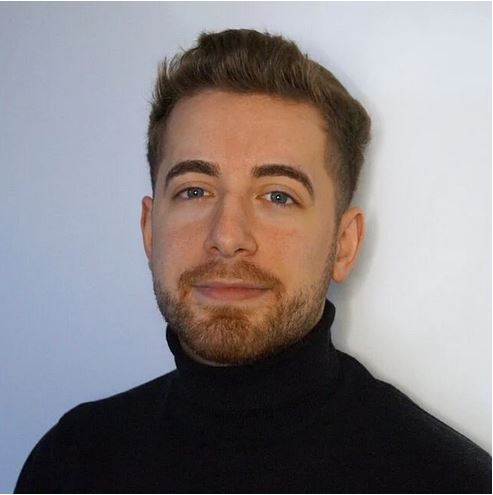
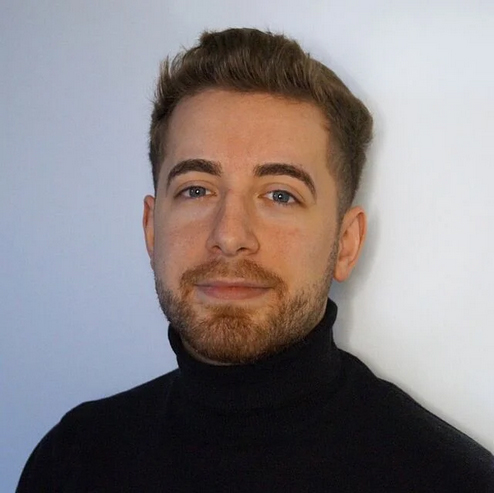
add github & mail links to peoples, add imgages

diff --git a/_pages/people.md b/_pages/people.md
@@ -4,12 +4,12 @@ permalink: /people/
 author_profile: false
 
 researchers:
-  - image_path: /assets/images/bio-photo.jpg
+  - image_path: /assets/images/Ibrahim.jpg
     alt: "Ibrahim Baroud"
     excerpt: 'Ibrahim Baroud'
     size: "500"
     email: "ibrahim.baroud@dfki.de"
-  - image_path: /assets/images/bio-photo.jpg
+  - image_path: /assets/images/Charlott.jpg
     alt: "Charlott Jakob"
     excerpt: 'Charlott Jakob'
     size: "500"
@@ -25,6 +25,7 @@ researchers:
     alt: "Lisa Raithel"
     excerpt: 'Lisa Raithel'
     size: "500" 
+    email: "raithel@tu-berlin.de"
   - image_path: /assets/images/Premtim.jpg
     alt: "Premtim Sahitaj"
     excerpt: 'Premtim Sahitaj'
@@ -37,7 +38,7 @@ researchers:
     size: "500"
     email: "vera.schmitt@tu-berlin.de"
     github: "https://github.com/veraschmitt"
-  - image_path: /assets/images/bio-photo.jpg
+  - image_path: /assets/images/Felipe.jpg
     alt: "Felipe Villa"
     excerpt: 'Felipe Villa'
     size: "500"
@@ -57,13 +58,13 @@ partner:
     size: "500"  
 
 students:
-  - image_path: /assets/images/bio-photo.jpg
+  - image_path: /assets/images/Ata.jpg
     alt: "Ata Nizamoglu"
     excerpt: 'Ata Nizamoglu'
     size: "500"
     email: "nizamoglu@campus.tu-berlin.de"
     github: "https://github.com/ataniz"
-  - image_path: /assets/images/bio-photo.jpg
+  - image_path: /assets/images/Ariana.jpg
     alt: "Ariana Sahitaj"
     excerpt: 'Ariana Sahitaj'
     size: "500"
